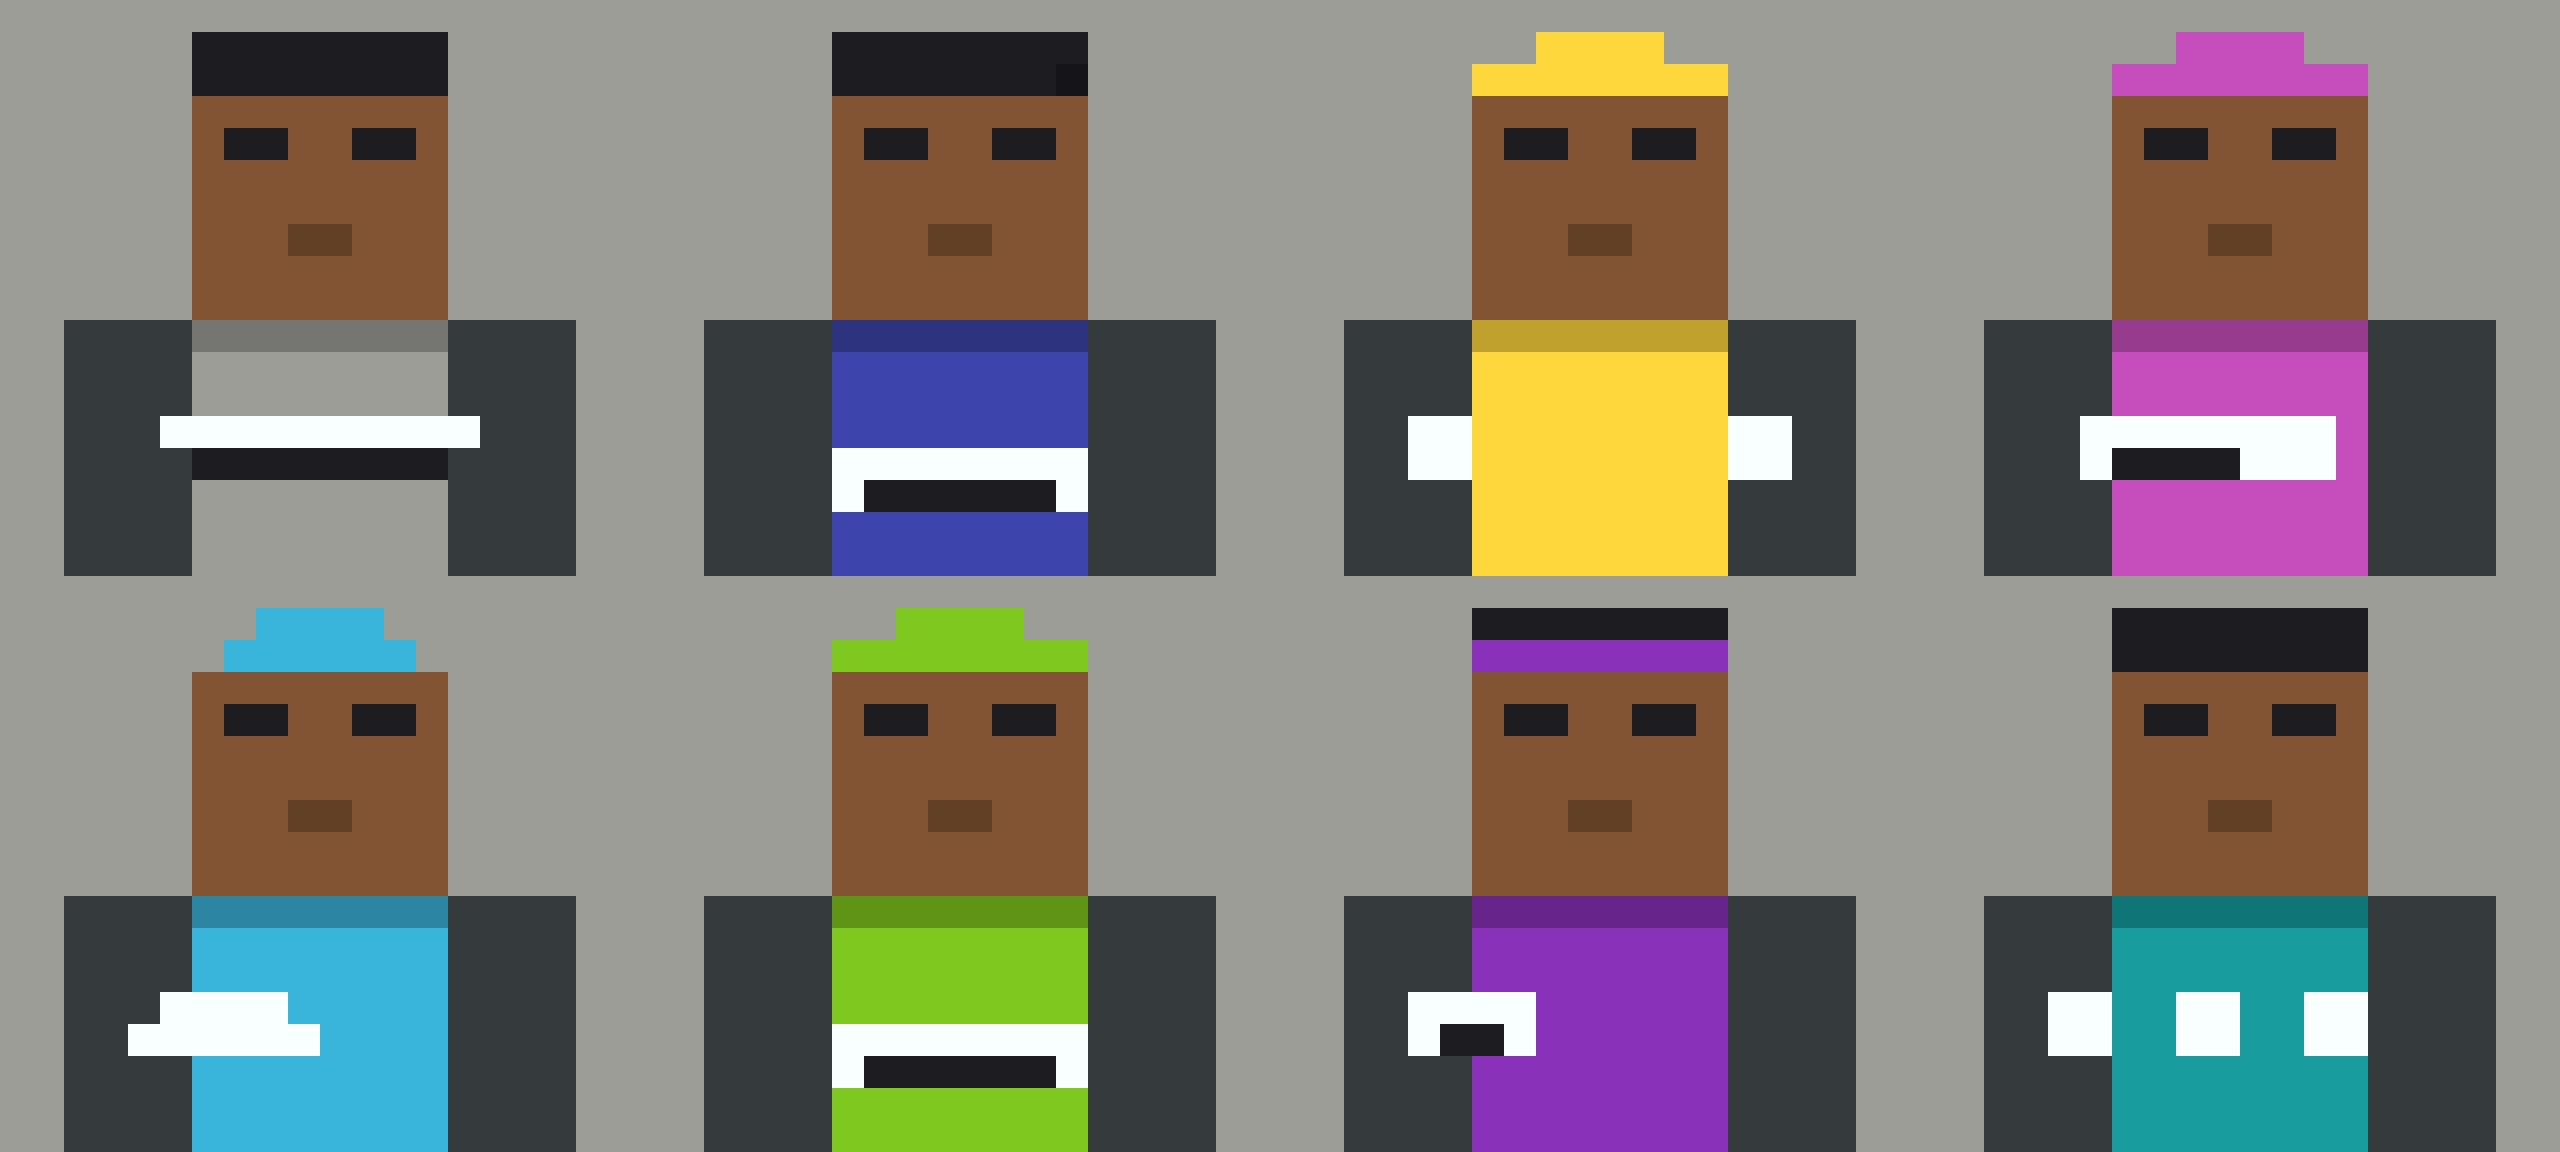
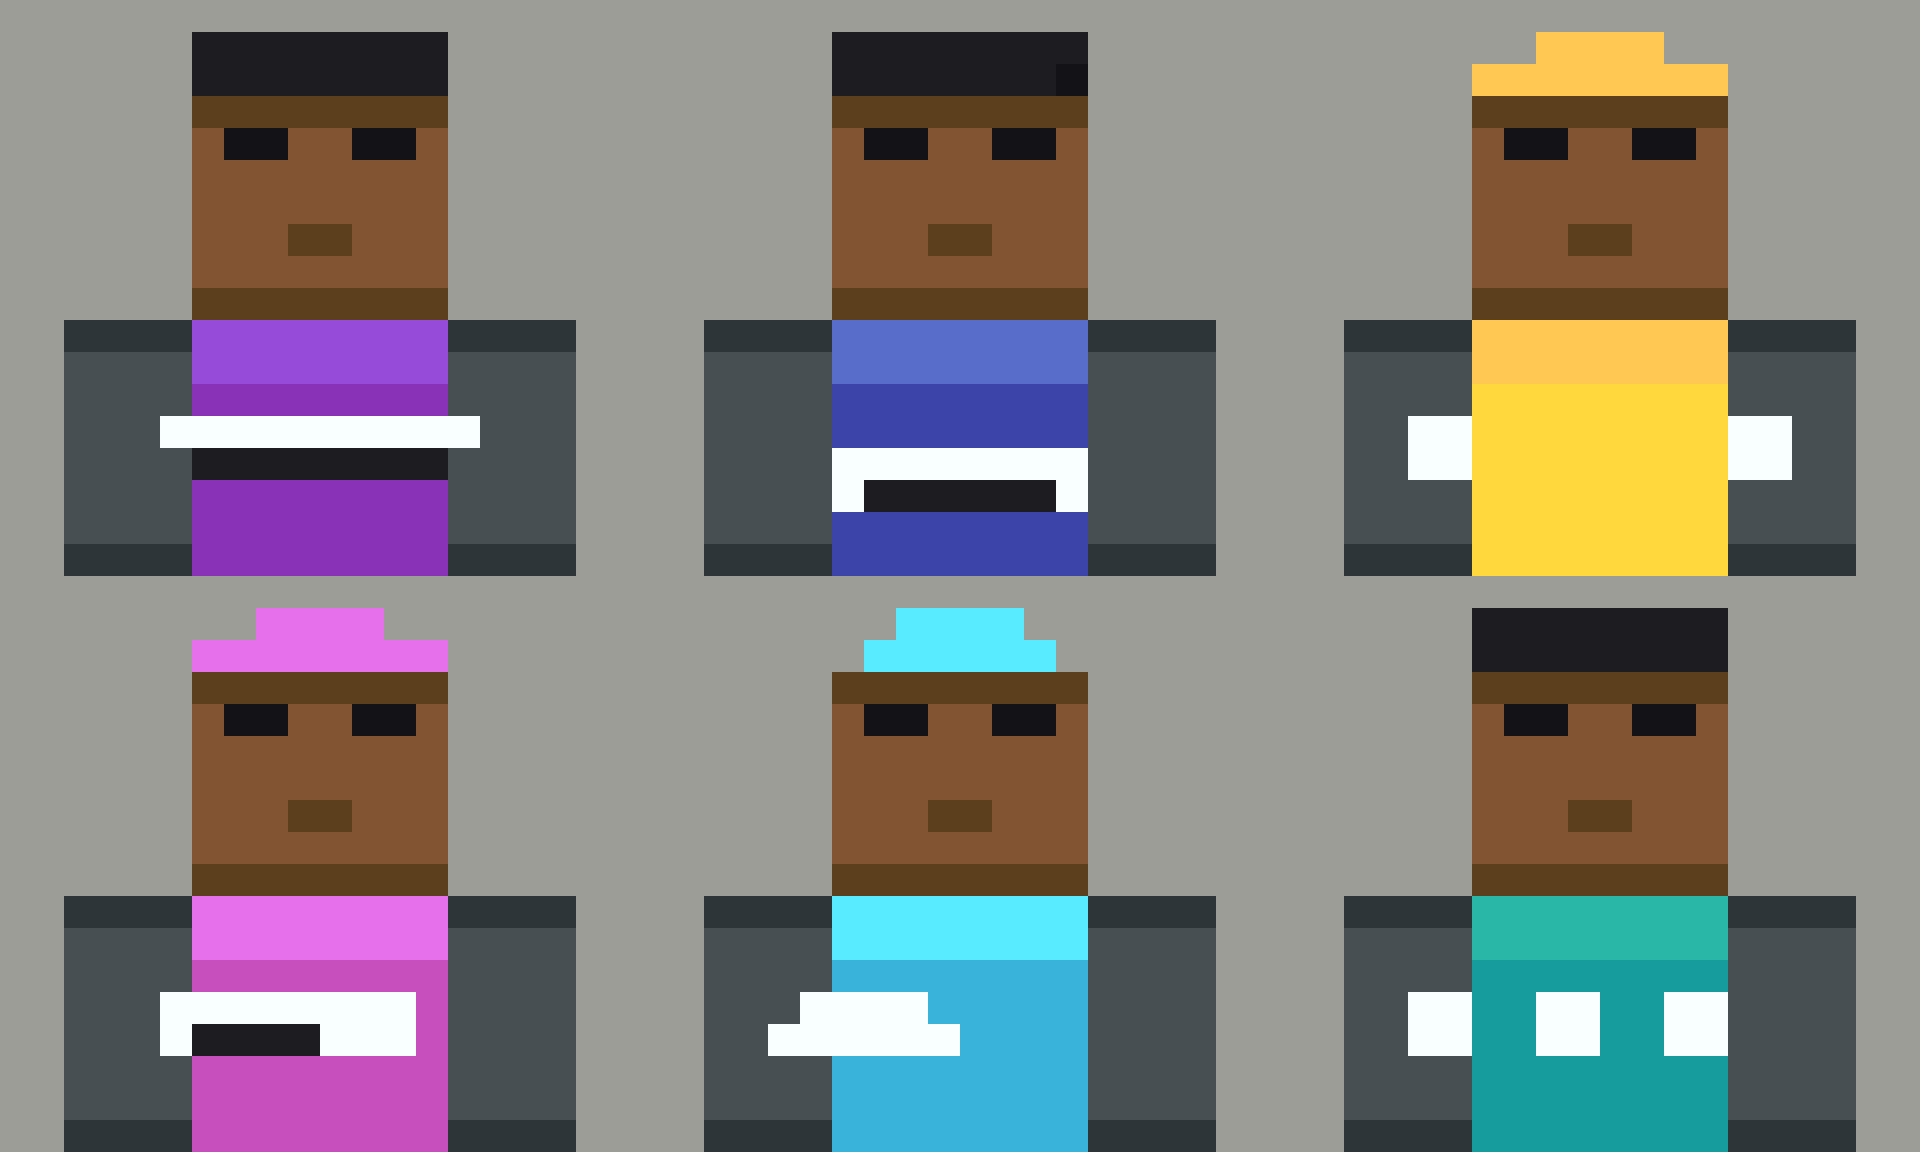
match the real voxel-game art style, not an impression of it
Researched against the Blockbench Minecraft Style Guide, the document modders
use to make new content look native. Three of our rules were wrong.

1. A straight ramp is the wrong ramp. Ours varied only brightness; the guide
   says straight ramps are avoided for their dull look. Vanilla ramps are
   hue-shifted: shadows toward blue and more saturated, highlights toward
   yellow and less. Cyan went from #107575 -> #169C9C to #09616D -> #169C9C
   -> #29B8A7. The palette now supplies the midtone and the ramp is derived
   by a fixed HSV rule, which also keeps every material in a crew lit
   identically.

2. Entities are lit top-and-front. The guide is explicit that the top and
   front must be brighter than the bottom and back. A flat evenly-filled
   figure reads as a UI icon; a top-lit one reads as a rendered entity.

3. No black outlines on an entity. Black outlines are an item-sprite
   convention for 16x16 inventory art. On a character an edge is the shadow
   shade of its own material. Using item rules on an entity is the commonest
   way fan art looks off without the artist being able to say why.

Documented the named artifacts a generator can produce by accident: banding,
pillow shading, pancake shading, noise, mixels, jaggies.

Found by rendering and looking, not by reading the guide: a full-width shadow
row along the bottom of the head is correct by the top-brighter rule and read
as a BEARD on all six crew members. The rule was right and the placement was
[…]

diff --git a/scripts/render.py b/scripts/render.py
@@ -80,16 +80,20 @@ ARM_W = 4
 #   c   accent            k    black       w    white
 #   p/P prop base/shade
 
+# 🔴 Style-guide entity rule: top and front brighter than bottom and back.
+# On a front-facing bust that becomes a highlight row at the top of each mass
+# and a shadow row at its lower edge. This is NOT pillow shading — the shades
+# follow the form's top and bottom, not concentric rings from the centre.
 HEAD_DEFAULT = [
+    "HHHHHHHH",   # hair, top plane catches the light
     "hhhhhhhh",
-    "hhhhhhhh",
-    "ssssssss",
+    "SSSSSSSS",   # brow line sits in shadow under the hair
     "seessees",
     "ssssssss",
     "ssssssss",
     "sssmmsss",
-    "ssssssss",
-]
+    "ssssssss",   # 🔴 a full-width shadow row here reads as a BEARD on every
+]           # face, not as a jaw. Form shading must not invent features.
 
 # Headwear replaces the top rows of the head. It is the separator that
 # survives to 32px: at that size a held prop is a smudge and the outline of
@@ -107,15 +111,15 @@ HEADWEAR = {
 }
 
 BODY_DEFAULT = [
-    "......ssssssss......",   # neck row, skin
-    "..aaaaccccccccaaaa..",   # collar / accent
+    "......SSSSSSSS......",   # neck, shadowed by the head above it
+    "..AAAAccccccccAAAA..",   # collar lit; arm tops catch light
+    "..aaaattttttttaaaa..",   # upper chest: lighter
     "..aaaaTTTTTTTTaaaa..",
     "..aaaaTTTTTTTTaaaa..",
     "..aaaaTTTTTTTTaaaa..",
     "..aaaaTTTTTTTTaaaa..",
     "..aaaaTTTTTTTTaaaa..",
-    "..aaaaTTTTTTTTaaaa..",
-    "..aaaaTTTTTTTTaaaa..",
+    "..AAAATTTTTTTTAAAA..",   # lower arm falls into shadow
 ]
 
 # Props are drawn over the body layer, held at chest height or raised —
@@ -323,6 +327,52 @@ def derive_from_base(path: pathlib.Path) -> dict:
     return derived
 
 
+
+# ------------------------------------------------------------ colour ramps ---
+# 🔴 A STRAIGHT RAMP IS THE WRONG RAMP
+#   A straight ramp varies only brightness. The Minecraft style guide is blunt
+#   about it: straight ramps "often aren't used due to their dull look".
+#   Vanilla ramps are HUE-SHIFTED — shadows shift toward blue and gain
+#   saturation, highlights shift toward yellow and lose it.
+#
+#   ⭐ This is why a technically-correct palette can still look flat. The
+#   palette supplies the MIDTONE; the ramp is derived from it by rule.
+#
+#   Measured on cyan #169C9C:
+#     straight  #107575 → #169C9C            (two values, same hue)
+#     shifted   #09616D → #169C9C → #29B8A7  (hue rotates across the ramp)
+
+RAMP_SPEC = (
+    (-0.30, +0.020, +0.06),   # shadow:    darker, toward blue, more saturated
+    (0.0,    0.0,    0.0),    # midtone:   the palette value itself
+    (+0.18, -0.020, -0.08),   # highlight: brighter, toward yellow, less saturated
+)
+
+
+def ramp(palette_name: str) -> list[tuple[int, int, int]]:
+    """Three-shade hue-shifted ramp derived from a palette midtone.
+
+    The palette entry is the identity colour. The shades are computed, not
+    invented: one deterministic rule applied to every material, which is what
+    keeps a crew lit consistently.
+    """
+    import colorsys
+    r, g, b = (c / 255 for c in hex_to_rgb(PALETTE[palette_name][0]))
+    h, s, v = colorsys.rgb_to_hsv(r, g, b)
+    out = []
+    for dv, dh, ds in RAMP_SPEC:
+        rr, gg, bb = colorsys.hsv_to_rgb(
+            (h + dh) % 1.0,
+            max(0.0, min(1.0, s + ds)),
+            max(0.0, min(1.0, v * (1 + dv))),
+        )
+        out.append((round(rr * 255), round(gg * 255), round(bb * 255)))
+    return out
+
+
+SHADOW, MID, HIGHLIGHT = 0, 1, 2
+
+
 # ---------------------------------------------------------------- plumbing --
 def hex_to_rgb(h: str) -> tuple[int, int, int]:
     h = h.lstrip("#")
@@ -350,17 +400,23 @@ def write_png(path: pathlib.Path, pixels: list[list[tuple[int, int, int]]]) -> N
 def build_grid(role: str, cfg: dict, shared: dict) -> list[list[str | None]]:
     """Compose one avatar as a GRID_H x GRID_W map of palette keys."""
     hue = cfg["hue"]
+    # (palette_name, ramp_index) — SHADOW / MID / HIGHLIGHT.
+    # 🔴 Entity rule from the style guide: "the top and front of the entity need
+    # to be brighter than the bottom and back." So an outline is the SHADOW of
+    # its own material, never a separate black — black outlines are an item-
+    # texture convention and look wrong on an entity.
     colours = {
-        "s": (shared["skin"], 0),    "S": (shared["skin"], 1),
-        "m": (shared["skin"], 1),
-        "h": (shared["hair"], 0),    "H": (shared["hair"], 1),
-        "e": ("black", 0),           "k": ("black", 0),   "w": ("white", 0),
-        "a": (shared["sleeve"], 1),  "A": (shared["sleeve"], 1),
-        "t": (hue, 0),               "T": (hue, 0),
-        "c": (hue, 1),
-        # 🔴 The prop must NOT use the torso hue — a yellow wrench on a yellow
+        "s": (shared["skin"], MID),      "S": (shared["skin"], SHADOW),
+        "m": (shared["skin"], SHADOW),
+        "h": (shared["hair"], MID),      "H": (shared["hair"], SHADOW),
+        "e": (shared["hair"], SHADOW),   "k": ("black", MID),
+        "w": ("white", MID),
+        "a": (shared["sleeve"], MID),    "A": (shared["sleeve"], SHADOW),
+        "t": (hue, HIGHLIGHT),           "T": (hue, MID),
+        "c": (hue, HIGHLIGHT),
+        # The prop must not use the torso hue — a yellow wrench on a yellow
         # torso is invisible, which defeats the one-prop rule entirely.
-        "p": (shared["prop_dark"], 0), "P": (shared["prop_light"], 0),
+        "p": (shared["prop_dark"], MID), "P": (shared["prop_light"], MID),
     }
 
     grid: list[list[str | None]] = [[None] * GRID_W for _ in range(GRID_H)]
@@ -389,12 +445,12 @@ def build_grid(role: str, cfg: dict, shared: dict) -> list[list[str | None]]:
 
 def render(role: str, cfg: dict, shared: dict, scale: int) -> list[list[tuple[int, int, int]]]:
     grid = build_grid(role, cfg, shared)
-    bg = hex_to_rgb(PALETTE[shared["background"]][0])
+    bg = ramp(shared["background"])[MID]
     out = []
     for row in grid:
         line = []
         for cell in row:
-            rgb = bg if cell is None else hex_to_rgb(PALETTE[cell[0]][cell[1]])
+            rgb = bg if cell is None else ramp(cell[0])[cell[1]]
             line.extend([rgb] * scale)
         out.extend([line] * scale)
     return out

diff --git a/SKILL.md b/SKILL.md
@@ -225,10 +225,10 @@ resemblance. The rest are free to vary, and should.
 | Prop | per-agent | Role hue, or its own accent |
 | Accent | per-agent, optional | One upper-body extra: collar, lanyard, badge, hatband, strap, earpiece |
 
-**Each material uses exactly two values from the palette**: its base, and that
-row's shade column for faces turned away from the light. Two flat values, no
-blending, no invented midtones — the palette supplies both, so shading is a
-lookup rather than a judgement.
+**Each material gets a three-shade hue-shifted ramp** derived from its palette
+midtone: shadow (darker, toward blue, more saturated), midtone, highlight
+(brighter, toward yellow, less saturated). Three flat values, no blending —
+computed by one rule, so every material in the crew is lit identically.
 
 ### Keeping it from turning into confetti
 
@@ -351,11 +351,11 @@ a crew cohere without being told to.
 | Magenta | `#C74EBD` | `#953A8D` |
 | Pink | `#F38BAA` | `#B6687F` |
 
-⭐ **The second column is the shading system, already solved.** Each hue has a
-canonical darker variant, so a face turned away from the light uses the shade
-column rather than an invented darker tone. Every material in the crew is then
-lit by the same logic — which is exactly what the invariant block is trying to
-guarantee.
+⚠ **The second column is a starting point, not the shading system.** It is a
+*straight* darker variant, and the style guide rejects straight ramps as dull.
+🔴 **Use the hue-shifted ramp instead** — see "Matching the voxel-game art
+style" below. The palette supplies the midtone; shadow and highlight are
+derived from it by a fixed HSV rule, applied identically to every material.
 
 ### Why a locked palette helps
 
@@ -463,6 +463,87 @@ Image models default to polished output. The words that matter:
 *apparent* resolution stays at 8 texels per head face. Do not generate small
 and upscale — that softens edges and destroys the only quality this section
 exists to produce.
+
+## Matching the voxel-game art style — the real rules
+
+Researched 30 Sep 2026 against the **Blockbench Minecraft Style Guide**, the
+document modders use to make new content look native. Three of our earlier
+rules were wrong.
+
+### 🔴 1. A straight ramp is the wrong ramp
+
+A *straight ramp* varies only brightness. The style guide is blunt: straight
+ramps *"often aren't used due to their dull look"*.
+
+**Vanilla ramps are hue-shifted.** Shadows shift toward blue and gain
+saturation; highlights shift toward yellow and lose it.
+
+| | shades |
+|---|---|
+| straight (wrong) | `#107575` → `#169C9C` |
+| hue-shifted (right) | `#09616D` → `#169C9C` → `#29B8A7` |
+
+⭐ **This is why a technically-correct palette still looks flat.** The palette
+supplies the *midtone*; the ramp is derived from it by rule — a fixed HSV
+offset applied to every material, which is also what keeps a crew lit
+identically.
+
+### 🔴 2. Entities are lit top-and-front
+
+The style guide's entity rule: *"the top and front of the entity need to be
+brighter than the bottom and back."* On a front-facing bust that becomes a
+highlight row at the top of each solid mass and a shadow at its lower edge.
+
+⚠ **This is the one shading rule that is not optional.** A flat, evenly
+filled figure reads as a UI icon; a top-lit one reads as a rendered entity.
+
+### 🔴 3. No black outlines on an entity
+
+Black outlines are an **item-texture** convention — the guide prescribes them
+for the 16×16 inventory sprites, *"a significantly darker outline"*, lit from
+the top left. Entities do not get them.
+
+So an edge is the **shadow shade of its own material**, never a separate
+black. Using item rules on an entity is the most common way a fan texture
+looks off without the artist being able to say why.
+
+### The artifacts to avoid, named
+
+The guide names these, and each is a real failure mode for a generator:
+
+| Artifact | What it is |
+|---|---|
+| **Banding** | Shades lined up brightest→darkest in a row, revealing the pixel grid |
+| **Pillow shading** | Shades applied concentrically from the centre outward, ignoring the form |
+| **Pancake shading** | Highlight on one side, shadow on the opposite side, ignoring the shape |
+| **Noise** | Brush-like speckle. *"Adds no information to the texture"* |
+| **Mixels** | Mixed resolutions in one image — elements finer than the texel grid |
+| **Jaggies** | Diagonals with an inconsistent step |
+
+🔴 **Anti-aliasing is explicitly not used.** Neither is dithering, here: the
+guide permits it for rough materials, but on a 20×18 bust it costs more
+legibility than it buys.
+
+### ⚠ Form shading must not invent features
+
+Measured while building this: a full-width shadow row along the bottom of the
+head — correct by the top-brighter rule — **read as a beard on every member of
+the crew.**
+
+⭐ **A shading rule applied without looking at the result produces a feature
+nobody asked for.** The rule was right and the placement was wrong. Render it,
+look at it, then keep the rule.
+
+### Simplicity is the founding principle
+
+*"Minecraft's art style is founded in simplicity. The overall shape of an
+object should be defined by the model and most of the detail by the texture."*
+
+📌 That is the argument for the whole design: shape carries identity, texture
+carries material, and **detail that does not survive the grid is removed
+rather than shrunk.**
+
+---
 
 ## 🔴 The invariant block — Method B only
 

diff --git a/README.md b/README.md
@@ -113,6 +113,15 @@ tools, the hat is what separates them.
 optional accent. Each rendered in two to four quantised shades on the texel
 grid.
 
+**Hue-shifted ramps, not flat fills.** Shadows shift toward blue and gain
+saturation; highlights shift toward yellow and lose it. Entities are lit
+top-and-front, and an edge is the shadow shade of its own material — never a
+black outline, which is an item-sprite convention that looks wrong on a
+character.
+
+> A straight ramp varies only brightness, and the style guide calls those
+> dull. This is why a technically-correct palette can still look flat.
+
 **A locked 16-colour palette.** Every value is a named slot with a hex code —
 greys and browns reserved for the shared slots, eleven high-chroma slots
 available as role hues. Each material uses its base value plus the palette's
